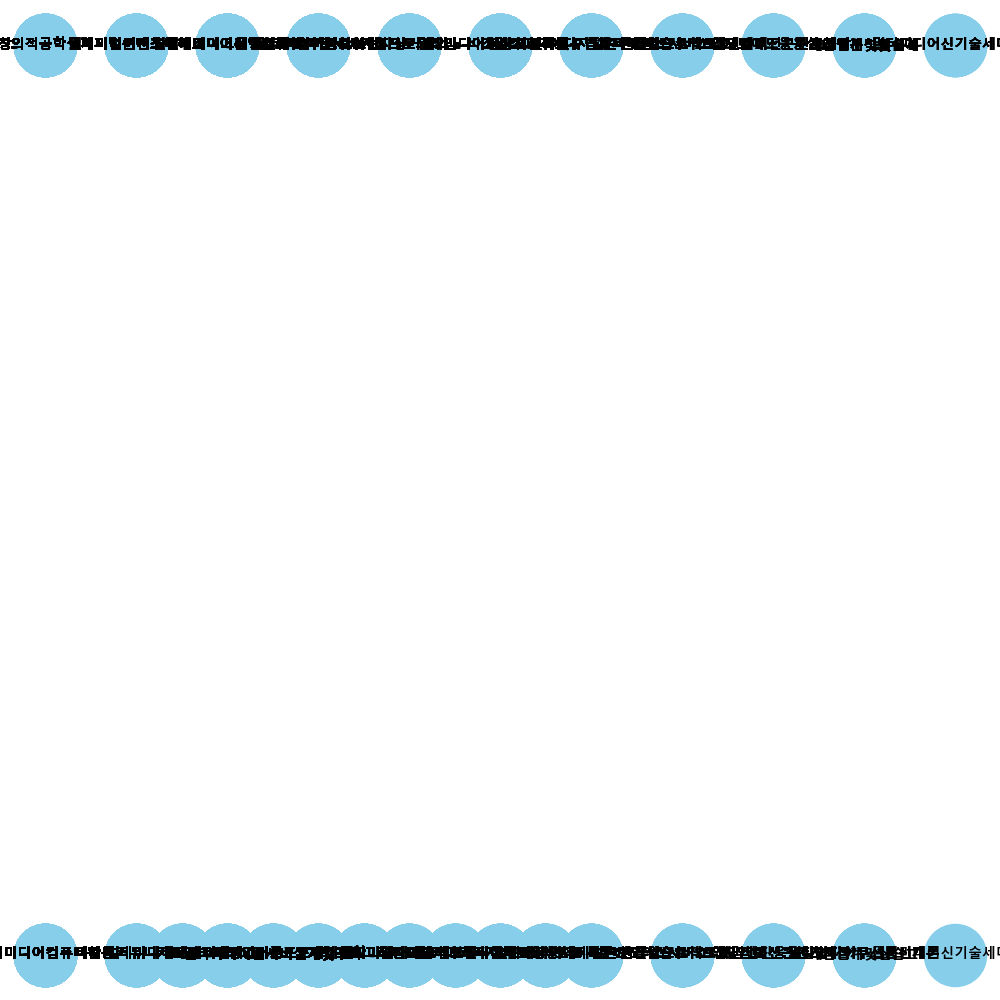
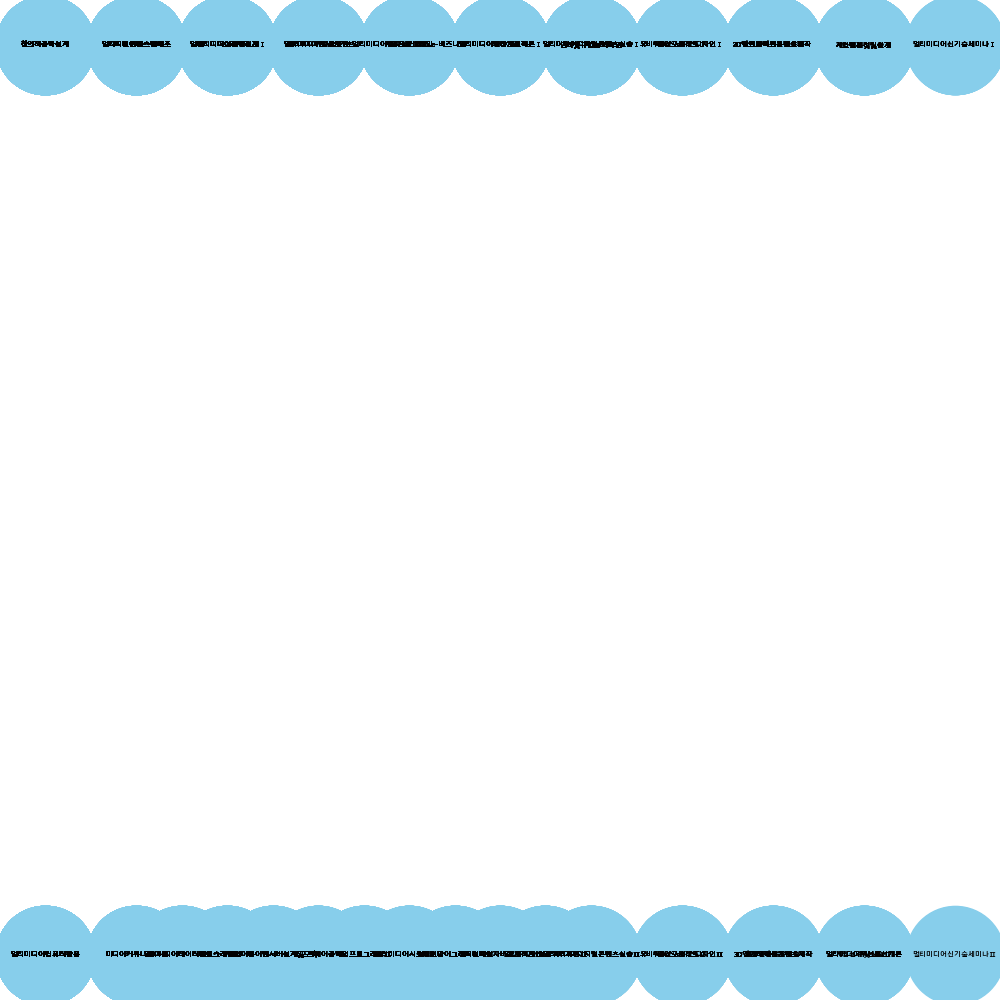
dddd

Changed region(s): [[0.0, 0.899, 1.0, 1.0], [0.0, 0.0, 1.0, 0.093]]

diff --git a/coursegraph/show_graph.py b/coursegraph/show_graph.py
@@ -39,7 +39,7 @@ def adjust_coordinates(subjects):
 
 def adjust_ratio(ratio):
     circle = 1000 * ratio
-    font = 1 * ratio
+    font = 1* ratio
     return circle, font
 
 
@@ -60,7 +60,7 @@ def draw_course_structure(subjects, output_file):
         if '선수과목' in subject:
             for prereq in subject['선수과목']:
                 G.add_edge(prereq, subject['과목명'])
-        nodescale, fontscale = adjust_ratio(10) #노드와 폰트의 비율 함수 추가
+        nodescale, fontscale = adjust_ratio(7) #노드와 폰트의 비율 함수 추가
         pos = nx.get_node_attributes(G, 'pos')
         nx.draw(G, pos, with_labels=True, node_size=nodescale, node_color="skyblue",  font_family=font_name, font_size=fontscale, font_weight="bold")
         for edge in G.edges():
